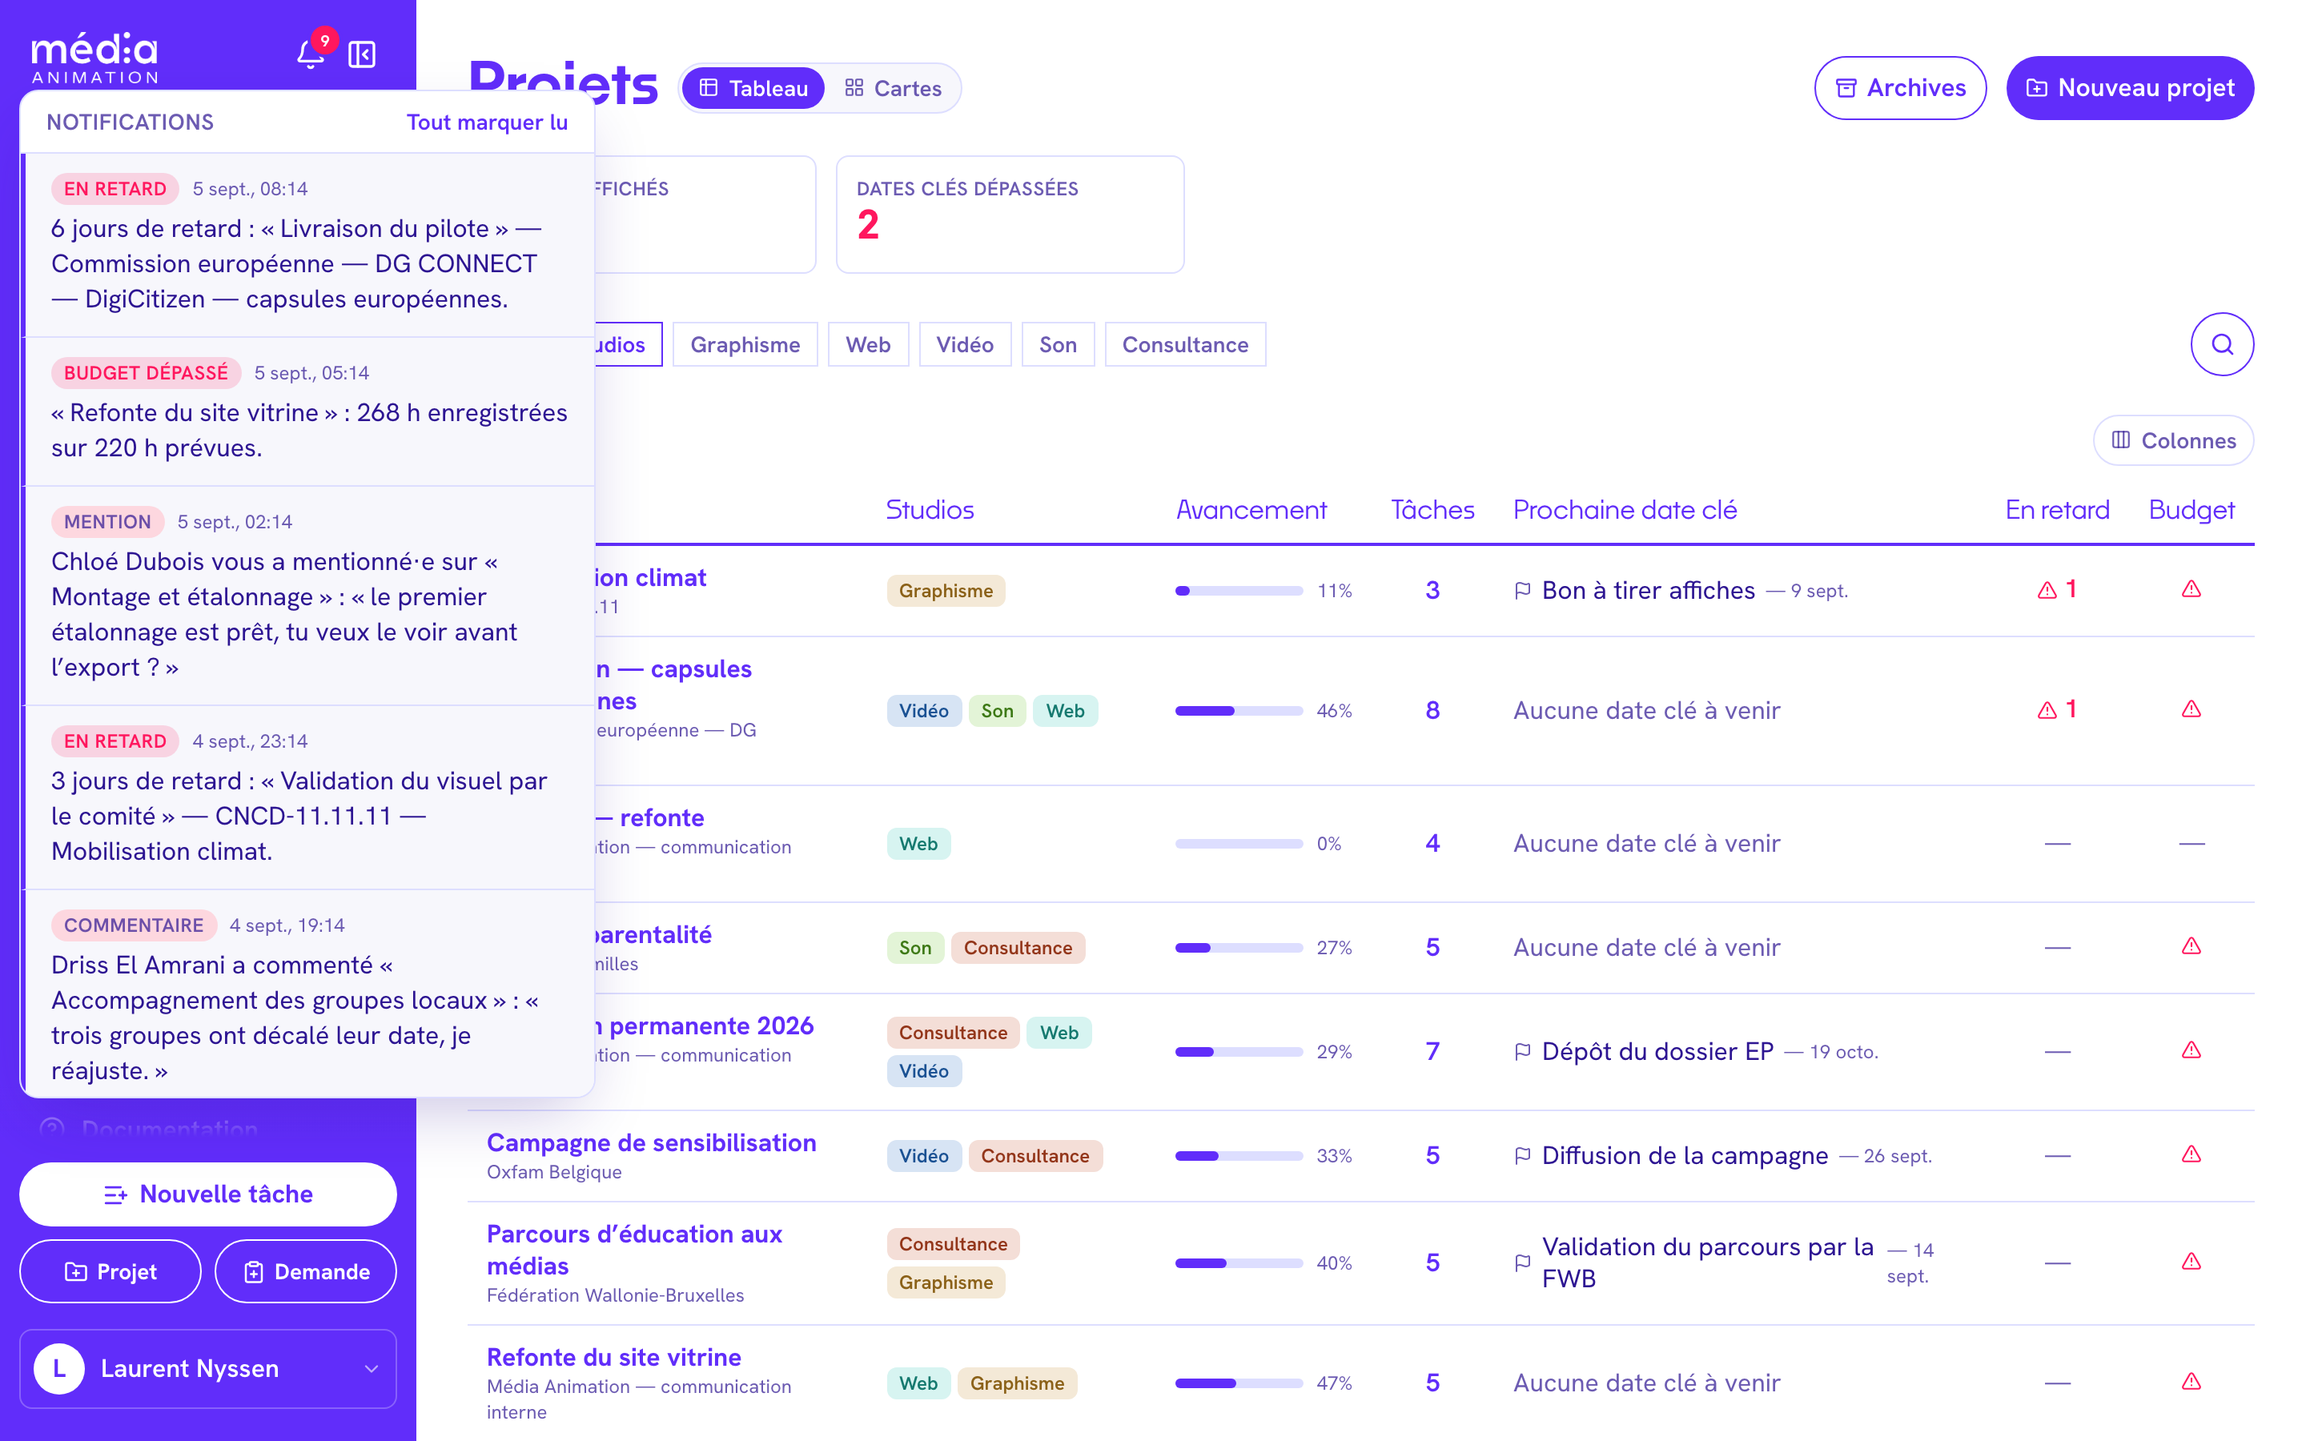
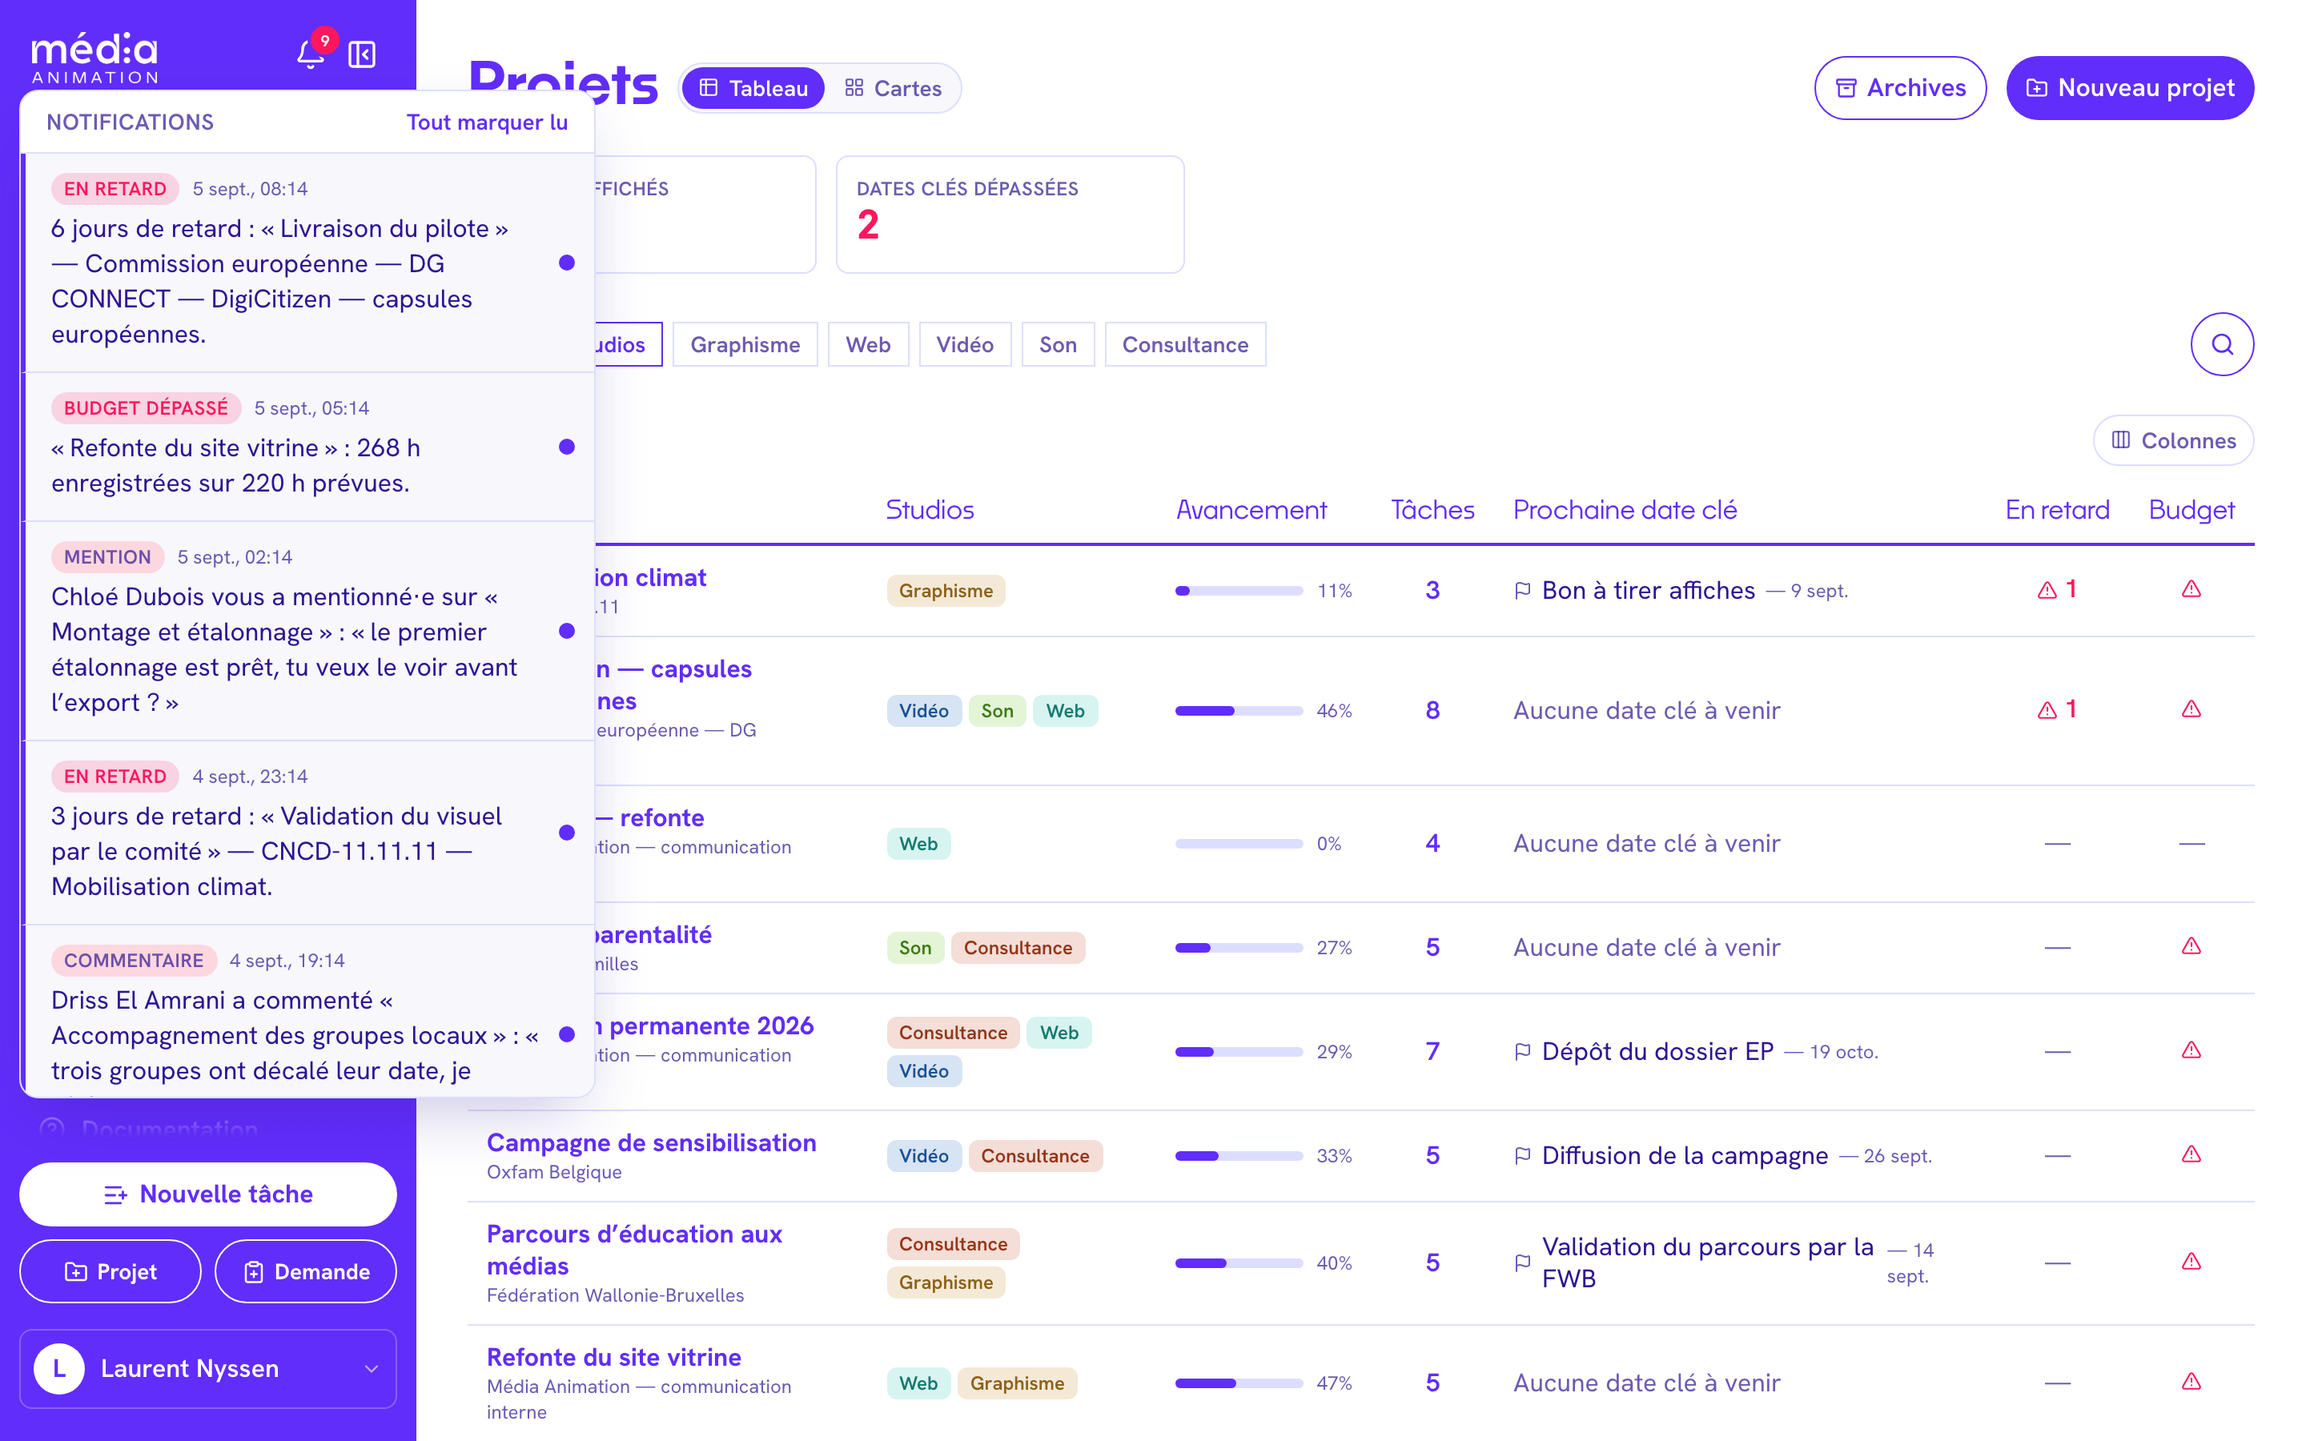
Corrige la barre repliée et rend l'état lu/non lu manipulable
Trois défauts signalés, trois causes distinctes.

Les icônes du haut du rail n'étaient pas sur l'axe des autres : replié,
l'en-tête émettait `items-start` et `items-center` ensemble, et c'est la
feuille de style qui tranchait. `items-start` l'emportait, décalant les
trois icônes de 4 px vers la gauche. Une seule règle désormais, tout est
centré sur 38.

Appuyer sur le profil, barre repliée, ne faisait « rien ». Le menu était
bien monté mais entièrement rogné : il s'ouvre à `left-full`, donc hors
de l'`aside`, qui porte `overflow-x: hidden`. Il passe par un portail sur
<body> avec ses coordonnées calculées, comme la cloche et la recherche.

Ouvrir une notification la marquait lue sans retour possible : on
parcourt la liste d'un œil sans pouvoir traiter, et la seule façon de ne
pas oublier était de ne pas y toucher. Chaque ligne porte maintenant un
point cliquable dans les deux sens — plein tant que c'est à traiter,
creux une fois lu.

Au passage, Échap ferme les deux panneaux, ce qu'aucun des deux ne
faisait.

Changed region(s): [[0.0, 0.1556, 0.25, 0.7467]]

diff --git a/src/components/shell/notification-bell.tsx b/src/components/shell/notification-bell.tsx
@@ -9,6 +9,7 @@ import {
   listNotifications,
   markAllNotificationsRead,
   markNotificationRead,
+  setNotificationRead,
   unreadNotificationCount,
 } from "@/lib/actions/notifications";
 import { quandFr } from "@/lib/planning/dates";
@@ -115,8 +116,15 @@ export function NotificationBell() {
   useEffect(() => {
     if (!open) return;
     computeCoords();
+    function onKey(e: KeyboardEvent) {
+      if (e.key === "Escape") setOpen(false);
+    }
     window.addEventListener("resize", computeCoords);
-    return () => window.removeEventListener("resize", computeCoords);
+    window.addEventListener("keydown", onKey);
+    return () => {
+      window.removeEventListener("resize", computeCoords);
+      window.removeEventListener("keydown", onKey);
+    };
   }, [open]);
 
   async function toggle() {
@@ -136,6 +144,13 @@ export function NotificationBell() {
       setCount((c) => Math.max(0, c - 1));
     }
     setOpen(false);
+  }
+
+  async function onToggleRead(n: Notification) {
+    const lue = !n.read;
+    setItems((prev) => prev.map((x) => (x.id === n.id ? { ...x, read: lue } : x)));
+    setCount((c) => Math.max(0, c + (lue ? -1 : 1)));
+    await setNotificationRead(n.id, lue);
   }
 
   async function onMarkAll() {
@@ -189,32 +204,55 @@ export function NotificationBell() {
               // marquer lu » restent atteignables quand la liste est longue.
               <div className="divide-y divide-line overflow-y-auto">
                 {items.map((n) => (
-                  <Link
+                  <div
                     key={n.id}
-                    href={n.link ?? "#"}
-                    onClick={() => onClickItem(n)}
                     // Le non-lu se signale par un filet à gauche sur un fond
-                    // très clair : l'aplat --color-tint qu'on avait avant
-                    // couvrait toute la ligne et rendait le message pénible à
-                    // lire, alors qu'il ne s'agit que de dire « celle-ci est
-                    // nouvelle ».
-                    className="flex flex-col gap-1 border-l-[3px] px-4 py-3 text-left transition-colors duration-100 hover:bg-wash active:bg-line"
+                    // très clair : l'aplat qu'on avait avant couvrait toute la
+                    // ligne et rendait le message pénible à lire, alors qu'il
+                    // ne s'agit que de dire « celle-ci est nouvelle ».
+                    className="group flex items-start border-l-[3px] transition-colors duration-100 hover:bg-wash"
                     style={{
                       borderLeftColor: n.read ? "transparent" : "var(--color-heading)",
                       background: n.read ? "transparent" : "var(--color-wash)",
                     }}
                   >
-                    <span className="flex items-center gap-2">
-                      <span
-                        className="rounded-full px-2 py-0.5 text-2xs font-semibold tracking-wide uppercase"
-                        style={{ background: TYPE_BADGE_BG[n.type], color: TYPE_BADGE_TEXT[n.type] }}
-                      >
-                        {TYPE_LABEL[n.type]}
+                    <Link
+                      href={n.link ?? "#"}
+                      onClick={() => onClickItem(n)}
+                      className="flex min-w-0 flex-1 flex-col gap-1 py-3 pl-4 text-left active:opacity-70"
+                    >
+                      <span className="flex items-center gap-2">
+                        <span
+                          className="rounded-full px-2 py-0.5 text-2xs font-semibold tracking-wide uppercase"
+                          style={{ background: TYPE_BADGE_BG[n.type], color: TYPE_BADGE_TEXT[n.type] }}
+                        >
+                          {TYPE_LABEL[n.type]}
+                        </span>
+                        <span className="text-2xs text-ink-muted">{quandFr(n.createdAt)}</span>
                       </span>
-                      <span className="text-2xs text-ink-muted">{quandFr(n.createdAt)}</span>
-                    </span>
-                    <span className="text-sm leading-snug text-ink">{n.message}</span>
-                  </Link>
+                      <span className={`text-sm leading-snug ${n.read ? "text-ink-muted" : "text-ink"}`}>{n.message}</span>
+                    </Link>
+
+                    {/* Ouvrir une notification la marquait lue, sans retour
+                        possible : on parcourt souvent la liste d'un œil sans
+                        pouvoir traiter, et la seule façon de ne pas oublier
+                        était de ne pas y toucher. Le point est cliquable dans
+                        les deux sens — plein tant que c'est à traiter, creux
+                        une fois lu. */}
+                    <button
+                      type="button"
+                      onClick={() => onToggleRead(n)}
+                      aria-pressed={!n.read}
+                      aria-label={n.read ? "Marquer comme non lue" : "Marquer comme lue"}
+                      title={n.read ? "Marquer comme non lue" : "Marquer comme lue"}
+                      className="flex flex-shrink-0 items-center justify-center self-stretch px-3 text-ink-muted transition-colors duration-100 hover:text-heading"
+                    >
+                      <span
+                        className="block h-2.5 w-2.5 rounded-full border-[1.5px] border-current"
+                        style={{ background: n.read ? "transparent" : "var(--color-heading)", borderColor: n.read ? undefined : "var(--color-heading)" }}
+                      />
+                    </button>
+                  </div>
                 ))}
               </div>
             )}

diff --git a/src/components/shell/app-shell.tsx b/src/components/shell/app-shell.tsx
@@ -23,6 +23,7 @@ import {
 import Link from "next/link";
 import { usePathname, useRouter } from "next/navigation";
 import { useEffect, useRef, useState } from "react";
+import { createPortal } from "react-dom";
 import { updateThemePreference } from "@/lib/actions/account";
 import { ChangePasswordModal } from "@/components/modals/change-password-modal";
 import { CreateProjectModal } from "@/components/modals/create-project-modal";
@@ -143,16 +144,44 @@ export function AppShell({
   const [collapsed, setCollapsedState] = useState(false);
   const [currentTheme, setCurrentTheme] = useState<ThemePreference>(theme);
   const [userMenuOpen, setUserMenuOpen] = useState(false);
-  const userMenuRef = useRef<HTMLDivElement>(null);
+  const userMenuButtonRef = useRef<HTMLButtonElement>(null);
+  /**
+   * Le menu du profil est rendu sur <body>, pas dans la barre latérale.
+   * Replié, il s'ouvrait à `left-full`, donc hors de l'`aside` — qui porte
+   * `overflow-x: hidden` pour que le rail ne défile pas horizontalement. Le
+   * menu était bien monté, mais entièrement rogné : appuyer sur le profil ne
+   * faisait « rien ». Sorti du flux, il lui faut ses coordonnées.
+   */
+  const [userMenuCoords, setUserMenuCoords] = useState<{ bottom: number; left: number; width: number } | null>(null);
 
   useEffect(() => {
     if (!userMenuOpen) return;
-    function onPointerDown(e: PointerEvent) {
-      if (userMenuRef.current && !userMenuRef.current.contains(e.target as Node)) setUserMenuOpen(false);
+    function place() {
+      const rect = userMenuButtonRef.current?.getBoundingClientRect();
+      if (!rect) return;
+      const marge = 12;
+      // Replié, le menu se déploie à droite du rail ; déplié, il monte
+      // au-dessus du bouton et en épouse la largeur.
+      const largeurVoulue = collapsed ? 240 : rect.width;
+      const width = Math.max(200, Math.min(largeurVoulue, window.innerWidth - marge * 2));
+      const gauche = collapsed ? rect.right + 8 : rect.left;
+      const left = Math.max(marge, Math.min(gauche, window.innerWidth - width - marge));
+      const bottom = window.innerHeight - (collapsed ? rect.bottom : rect.top - 8);
+      setUserMenuCoords({ bottom, left, width });
     }
-    document.addEventListener("pointerdown", onPointerDown);
-    return () => document.removeEventListener("pointerdown", onPointerDown);
-  }, [userMenuOpen]);
+    place();
+    function onKey(e: KeyboardEvent) {
+      if (e.key === "Escape") setUserMenuOpen(false);
+    }
+    window.addEventListener("resize", place);
+    window.addEventListener("scroll", place, true);
+    window.addEventListener("keydown", onKey);
+    return () => {
+      window.removeEventListener("resize", place);
+      window.removeEventListener("scroll", place, true);
+      window.removeEventListener("keydown", onKey);
+    };
+  }, [userMenuOpen, collapsed]);
 
   const userInitial = userName.trim().charAt(0).toUpperCase() || "?";
 
@@ -419,7 +448,16 @@ export function AppShell({
 
     return (
       <>
-        <div className={`flex flex-shrink-0 items-start gap-2 px-5 pt-5 pb-4 ${isCollapsed ? "flex-col items-center" : "justify-between"}`}>
+        {/* Une seule règle d'alignement : la version repliée émettait
+            `items-start` et `items-center` ensemble, et c'est la feuille de
+            style qui tranchait — `items-start` l'emportait, si bien que les
+            icônes se collaient à gauche au lieu d'être centrées sur l'axe de
+            la barre. */}
+        <div
+          className={`flex flex-shrink-0 gap-2 px-5 pt-5 pb-4 ${
+            isCollapsed ? "flex-col items-center" : "items-start justify-between"
+          }`}
+        >
           {!isCollapsed && (
             <div>
               {/* eslint-disable-next-line @next/next/no-img-element -- logo bitmap fourni tel quel, pas d'optimisation next/image nécessaire pour cette taille */}
@@ -512,12 +550,18 @@ export function AppShell({
           </div>
         </div>
 
-        <div ref={userMenuRef} className={`relative flex-shrink-0 px-3 pb-5 ${isCollapsed ? "flex flex-col items-center" : ""}`}>
-          {userMenuOpen && (
+        <div className={`relative flex-shrink-0 px-3 pb-5 ${isCollapsed ? "flex flex-col items-center" : ""}`}>
+          {userMenuOpen && userMenuCoords && createPortal(
+            <>
+              <button
+                type="button"
+                aria-label="Fermer"
+                className="fixed inset-0 z-30"
+                onClick={() => setUserMenuOpen(false)}
+              />
             <div
-              className={`absolute z-20 ${popoverSurfaceClass} ${
-                isCollapsed ? "bottom-0 left-full ml-2 w-60" : "right-3 bottom-full left-3 mb-2"
-              }`}
+              style={{ bottom: userMenuCoords.bottom, left: userMenuCoords.left, width: userMenuCoords.width }}
+              className={`fixed z-40 ${popoverSurfaceClass}`}
             >
               <div className="px-4 pt-3 pb-2.5">
                 <p className="truncate text-sm font-bold text-heading">{userName}</p>
@@ -599,9 +643,12 @@ export function AppShell({
                 </button>
               </form>
             </div>
+            </>,
+            document.body,
           )}
 
           <button
+            ref={userMenuButtonRef}
             type="button"
             onClick={() => setUserMenuOpen((v) => !v)}
             aria-expanded={userMenuOpen}

diff --git a/src/app/(app)/aide/page.tsx b/src/app/(app)/aide/page.tsx
@@ -473,8 +473,13 @@ export default function AidePage() {
             <li>Une mention (« @Nom ») dans un commentaire.</li>
             <li>Un nouveau commentaire sur une tâche qui vous est attribuée, même sans mention.</li>
             <li>Une nouvelle demande <Admin />.</li>
-            <li>Un budget de projet dépassé, ou un rythme de consommation qui dérive <Admin />.</li>
+            <li>Une date clé dépassée, ou un budget de projet dépassé <Admin />.</li>
           </Ul>
+          <P>
+            Le point à droite de chaque ligne dit si elle est traitée : plein tant qu’elle ne l’est pas, creux une
+            fois lue. Il se clique dans les deux sens — ouvrir une notification la marque lue, et ce point permet de
+            la remettre en attente quand on l’a seulement parcourue.
+          </P>
           <P>
             Le courriel correspondant à chacune de ces alertes se règle indépendamment dans « Mes notifications »
             (menu du compte, en bas de la barre latérale) — la cloche reste active même si tous les courriels sont

diff --git a/src/lib/actions/notifications.ts b/src/lib/actions/notifications.ts
@@ -54,6 +54,18 @@ export async function markNotificationRead(id: string): Promise<void> {
   revalidatePath("/", "layout");
 }
 
+/**
+ * Repasser une notification en non lue : on la parcourt souvent d'un œil sans
+ * pouvoir la traiter tout de suite, et sans ce retour en arrière la seule
+ * façon de ne pas l'oublier était de ne pas y toucher.
+ */
+export async function setNotificationRead(id: string, read: boolean): Promise<void> {
+  const personId = await currentPersonId();
+  if (!personId) return;
+  await db.notification.updateMany({ where: { id, recipientId: personId }, data: { read } });
+  revalidatePath("/", "layout");
+}
+
 export async function markAllNotificationsRead(): Promise<void> {
   const personId = await currentPersonId();
   if (!personId) return;
